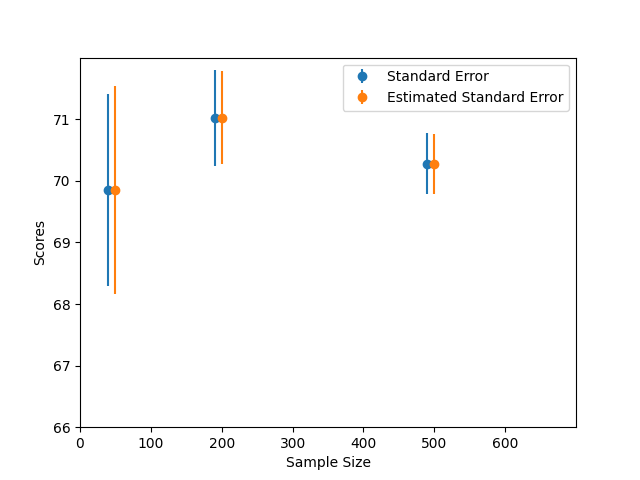
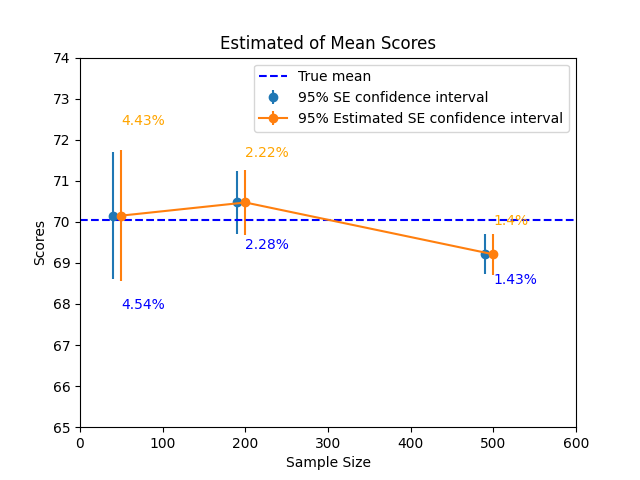
temp

diff --git a/confidence_interval_and_sampling_statistics/main.py b/confidence_interval_and_sampling_statistics/main.py
@@ -63,17 +63,24 @@ for size in sample_sizes:
     estimated_standard_errors.append(sample_std_dev / np.sqrt(size))
 
 offset = 10
+standard_error_percentages = [error / mean * 100 * 2 for error in standard_errors]
+estimated_standard_error_percentages = [error / mean * 100 * 2 for error in estimated_standard_errors]
 plt.figure()
-plt.errorbar([size - offset for size in sample_sizes], sample_means, yerr=standard_errors, fmt='o', label='Standard Error')
-plt.errorbar(sample_sizes, sample_means, yerr=estimated_standard_errors, fmt='o', label='Estimated Standard Error')
+x_values = [50, 200, 500]
+y_values = [error / sample_mean * 100 + sample_mean for error, sample_mean in zip(standard_errors, sample_means)]
+for x, y, percentage in zip(x_values, y_values, standard_error_percentages):
+    plt.text(x, y, str(round(percentage, 2)) + '%', color='orange')
+y_values = [- error / sample_mean * 100 + sample_mean for error, sample_mean in zip(estimated_standard_errors, sample_means)]
+for x, y, percentage in zip(x_values, y_values, estimated_standard_error_percentages):
+    plt.text(x, y, str(round(percentage, 2)) + '%', color='blue')
+plt.errorbar([size - offset for size in sample_sizes], sample_means, yerr=standard_errors, fmt='o', label='95% SE confidence interval')
+plt.errorbar(sample_sizes, sample_means, yerr=estimated_standard_errors, fmt='o-', label='95% Estimated SE confidence interval')
+plt.axhline(y=mean, color='blue', linestyle='--', label='True mean')
+plt.title('Estimated of Mean Scores')
 plt.xlabel('Sample Size')
 plt.ylabel('Scores')
-plt.xlim(0, 700)
 plt.xticks(np.arange(0, 700, 100))
-plt.ylim(66, 72)
-plt.yticks(np.arange(66, 72, 1))
+plt.yticks(np.arange(65, 75, 1))
 plt.legend()
 plt.savefig('Estimated of Mean Scores.png')
 
-standard_error_percentages = [error / mean * 100 for error in standard_errors]
-estimated_standard_error_percentages = [error / mean * 100 for error in estimated_standard_errors]
